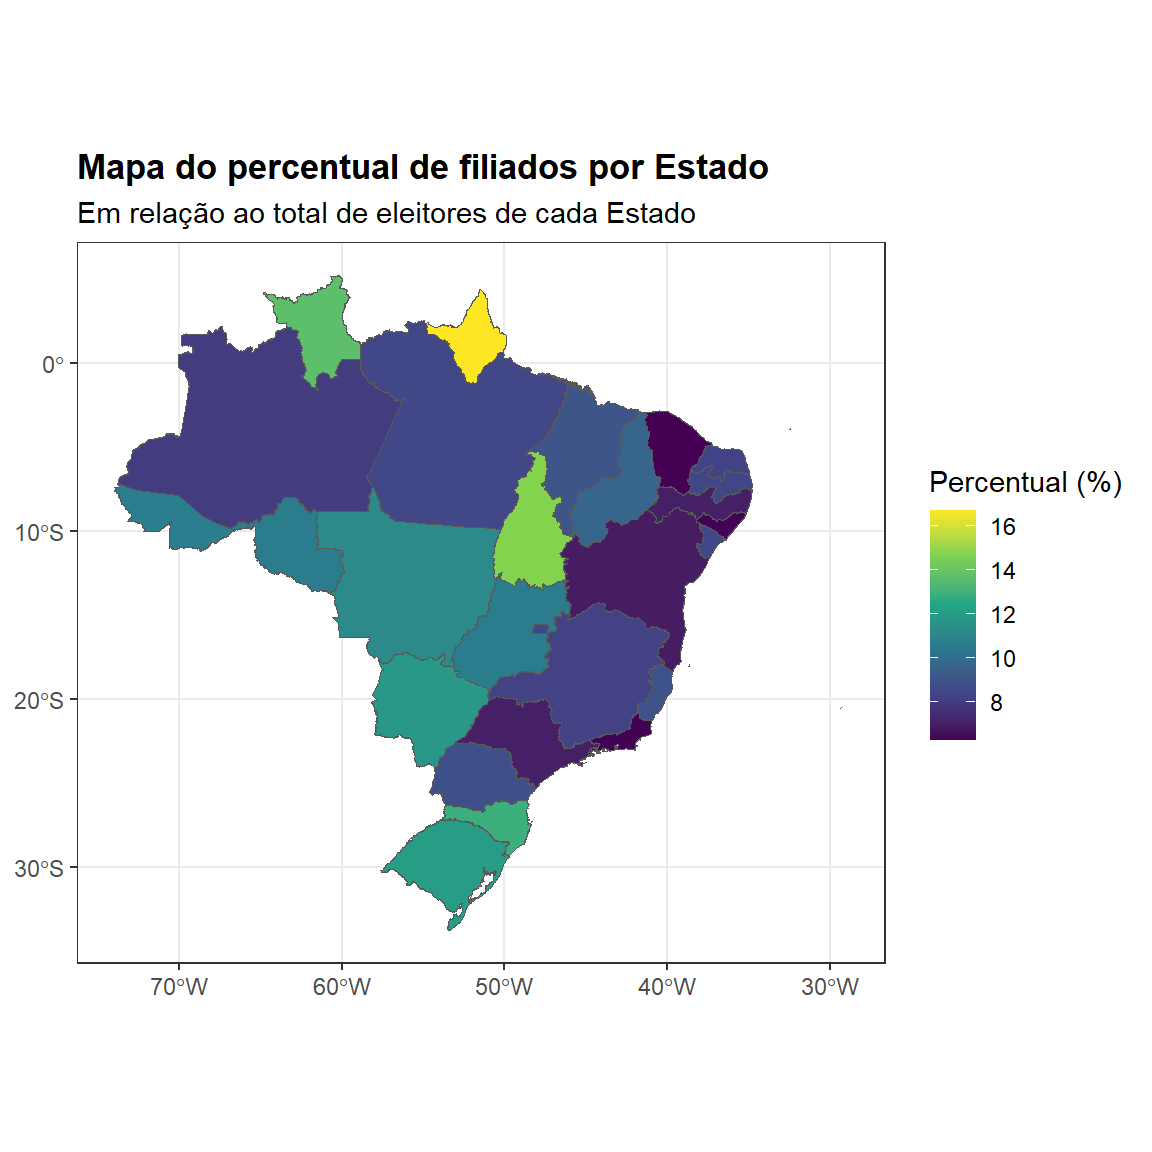
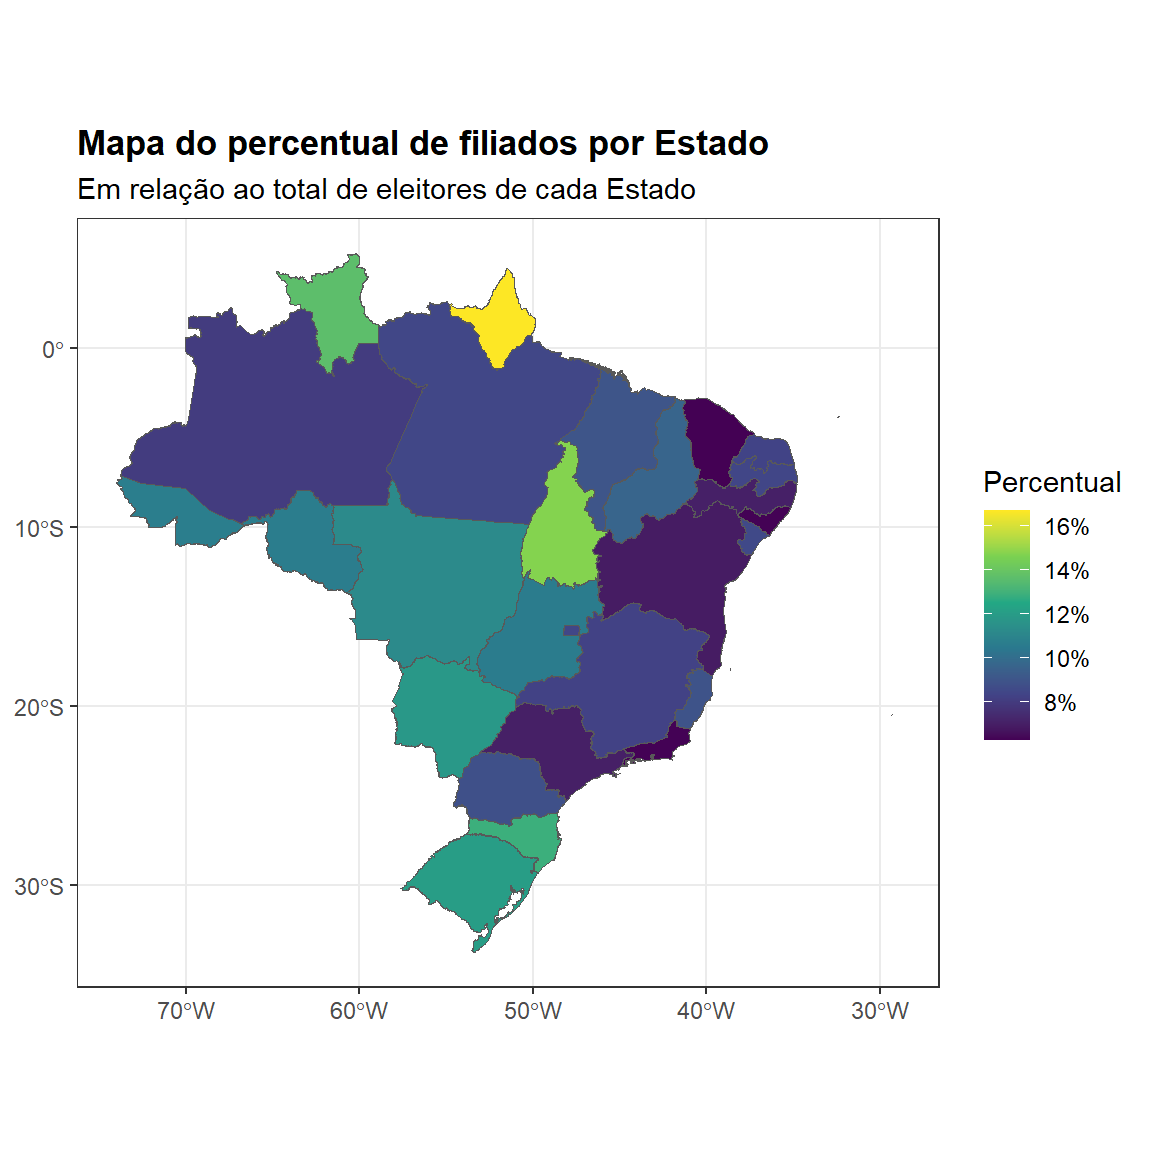
index

diff --git a/index.html b/index.html
@@ -447,18 +447,18 @@ pre > code.sourceCode > span > a:first-child::before { text-decoration: underlin
 <span id="cb11-2"><a href="#cb11-2" aria-hidden="true" tabindex="-1"></a>  <span class="co"># Agrupando por Estado e pela população total</span></span>
 <span id="cb11-3"><a href="#cb11-3" aria-hidden="true" tabindex="-1"></a>  <span class="fu">group_by</span>(uf, quantidade_de_eleitor) <span class="sc">|&gt;</span> </span>
 <span id="cb11-4"><a href="#cb11-4" aria-hidden="true" tabindex="-1"></a>  <span class="co"># Somando o total de pessoas filiadas por Estado</span></span>
-<span id="cb11-5"><a href="#cb11-5" aria-hidden="true" tabindex="-1"></a>  <span class="fu">summarise</span>(<span class="at">total_filiados =</span> <span class="fu">sum</span>(quantidade_de_filiados)) <span class="sc">|&gt;</span></span>
+<span id="cb11-5"><a href="#cb11-5" aria-hidden="true" tabindex="-1"></a>  <span class="fu">summarise</span>(<span class="at">total_filiados =</span> <span class="fu">sum</span>(quantidade_de_filiados)) <span class="sc">|&gt;</span> </span>
 <span id="cb11-6"><a href="#cb11-6" aria-hidden="true" tabindex="-1"></a>  <span class="co"># Retirando ZZ (exterior)</span></span>
 <span id="cb11-7"><a href="#cb11-7" aria-hidden="true" tabindex="-1"></a>  <span class="fu">filter</span>(uf <span class="sc">!=</span> <span class="st">"ZZ"</span>) <span class="sc">|&gt;</span> </span>
 <span id="cb11-8"><a href="#cb11-8" aria-hidden="true" tabindex="-1"></a>  <span class="co"># Fazendo o percentual de filiados em relação à pop. total do Estado</span></span>
-<span id="cb11-9"><a href="#cb11-9" aria-hidden="true" tabindex="-1"></a>  <span class="fu">mutate</span>(<span class="at">prop_filiados =</span> total_filiados<span class="sc">/</span>quantidade_de_eleitor) <span class="sc">|&gt;</span> </span>
+<span id="cb11-9"><a href="#cb11-9" aria-hidden="true" tabindex="-1"></a>  <span class="fu">mutate</span>(<span class="at">perc_filiados =</span> total_filiados<span class="sc">/</span>quantidade_de_eleitor) <span class="sc">|&gt;</span> </span>
 <span id="cb11-10"><a href="#cb11-10" aria-hidden="true" tabindex="-1"></a>  <span class="co"># Iniciando a montagem do gráfico</span></span>
 <span id="cb11-11"><a href="#cb11-11" aria-hidden="true" tabindex="-1"></a>  <span class="fu">ggplot</span>() <span class="sc">+</span></span>
 <span id="cb11-12"><a href="#cb11-12" aria-hidden="true" tabindex="-1"></a>  <span class="co"># Definindo aes</span></span>
 <span id="cb11-13"><a href="#cb11-13" aria-hidden="true" tabindex="-1"></a>  <span class="fu">aes</span>(</span>
 <span id="cb11-14"><a href="#cb11-14" aria-hidden="true" tabindex="-1"></a>    <span class="co"># Ordenando os partidos a partir do número total de pessoas filiadas</span></span>
-<span id="cb11-15"><a href="#cb11-15" aria-hidden="true" tabindex="-1"></a>    <span class="at">x =</span> <span class="fu">reorder</span>(uf, <span class="sc">+</span>prop_filiados), </span>
-<span id="cb11-16"><a href="#cb11-16" aria-hidden="true" tabindex="-1"></a>    <span class="at">y =</span> prop_filiados) <span class="sc">+</span></span>
+<span id="cb11-15"><a href="#cb11-15" aria-hidden="true" tabindex="-1"></a>    <span class="at">x =</span> <span class="fu">reorder</span>(uf, <span class="sc">+</span>perc_filiados), </span>
+<span id="cb11-16"><a href="#cb11-16" aria-hidden="true" tabindex="-1"></a>    <span class="at">y =</span> perc_filiados) <span class="sc">+</span></span>
 <span id="cb11-17"><a href="#cb11-17" aria-hidden="true" tabindex="-1"></a>  <span class="co"># Definindo a geometria</span></span>
 <span id="cb11-18"><a href="#cb11-18" aria-hidden="true" tabindex="-1"></a>  <span class="fu">geom_col</span>(</span>
 <span id="cb11-19"><a href="#cb11-19" aria-hidden="true" tabindex="-1"></a>    <span class="co"># Definindo o preenchuimento pela sigla de cada UF</span></span>
@@ -486,8 +486,8 @@ pre > code.sourceCode > span > a:first-child::before { text-decoration: underlin
 <span id="cb11-41"><a href="#cb11-41" aria-hidden="true" tabindex="-1"></a>  <span class="fu">labs</span>(</span>
 <span id="cb11-42"><a href="#cb11-42" aria-hidden="true" tabindex="-1"></a>    <span class="at">x =</span> <span class="st">""</span>,</span>
 <span id="cb11-43"><a href="#cb11-43" aria-hidden="true" tabindex="-1"></a>    <span class="at">y =</span> <span class="st">"Total"</span>,</span>
-<span id="cb11-44"><a href="#cb11-44" aria-hidden="true" tabindex="-1"></a>    <span class="at">title =</span> <span class="st">"Percentual de pessoas filiadas por Estado"</span>,</span>
-<span id="cb11-45"><a href="#cb11-45" aria-hidden="true" tabindex="-1"></a>    <span class="at">subtitle =</span> <span class="st">"Em relação ao total de eleitores do Estado"</span>,</span>
+<span id="cb11-44"><a href="#cb11-44" aria-hidden="true" tabindex="-1"></a>    <span class="at">title =</span> <span class="st">"Total de pessoas filiadas por Estado"</span>,</span>
+<span id="cb11-45"><a href="#cb11-45" aria-hidden="true" tabindex="-1"></a>    <span class="at">subtitle =</span> <span class="st">"Percentual em relação ao total de eleitores no Estado"</span>,</span>
 <span id="cb11-46"><a href="#cb11-46" aria-hidden="true" tabindex="-1"></a>    <span class="at">caption =</span> <span class="st">"Fonte: Portal de Dados Abertos do TSE (ultima atualização: 07/2023)"</span>) <span class="sc">+</span></span>
 <span id="cb11-47"><a href="#cb11-47" aria-hidden="true" tabindex="-1"></a>  <span class="fu">theme</span>(<span class="at">plot.title =</span> <span class="fu">element_text</span>(<span class="at">size =</span> <span class="dv">12</span>, <span class="at">face =</span> <span class="st">"bold"</span>))</span></code><button title="Copy to Clipboard" class="code-copy-button"><i class="bi"></i></button></pre></div>
 <div class="cell-output-display">
@@ -552,14 +552,14 @@ pre > code.sourceCode > span > a:first-child::before { text-decoration: underlin
 <section id="criando-objeto-com-o-percentual-de-filiados-por-estado" class="level6">
 <h6 class="anchored" data-anchor-id="criando-objeto-com-o-percentual-de-filiados-por-estado">Criando objeto com o percentual de filiados por Estado</h6>
 <div class="cell">
-<div class="sourceCode cell-code" id="cb14"><pre class="sourceCode r code-with-copy"><code class="sourceCode r"><span id="cb14-1"><a href="#cb14-1" aria-hidden="true" tabindex="-1"></a>prop_filiados_uf <span class="ot">&lt;-</span> dados_eleitorado_total <span class="sc">|&gt;</span></span>
+<div class="sourceCode cell-code" id="cb14"><pre class="sourceCode r code-with-copy"><code class="sourceCode r"><span id="cb14-1"><a href="#cb14-1" aria-hidden="true" tabindex="-1"></a>perc_filiados_uf <span class="ot">&lt;-</span> dados_eleitorado_total <span class="sc">|&gt;</span></span>
 <span id="cb14-2"><a href="#cb14-2" aria-hidden="true" tabindex="-1"></a>  <span class="co"># Agrupando por Estado e população total</span></span>
 <span id="cb14-3"><a href="#cb14-3" aria-hidden="true" tabindex="-1"></a>  <span class="fu">group_by</span>(uf, quantidade_de_eleitor) <span class="sc">|&gt;</span> </span>
 <span id="cb14-4"><a href="#cb14-4" aria-hidden="true" tabindex="-1"></a>  <span class="co"># Somando o total de pessoas filiadas</span></span>
 <span id="cb14-5"><a href="#cb14-5" aria-hidden="true" tabindex="-1"></a>  <span class="fu">summarise</span>(<span class="at">total_filiados =</span> <span class="fu">sum</span>(quantidade_de_filiados)) <span class="sc">|&gt;</span> </span>
 <span id="cb14-6"><a href="#cb14-6" aria-hidden="true" tabindex="-1"></a>  <span class="co"># Criando coluna com o percentual de pessoas filiadas em relação à população</span></span>
 <span id="cb14-7"><a href="#cb14-7" aria-hidden="true" tabindex="-1"></a>  <span class="co"># total do Estado</span></span>
-<span id="cb14-8"><a href="#cb14-8" aria-hidden="true" tabindex="-1"></a>  <span class="fu">mutate</span>(<span class="at">prop_filiados =</span> total_filiados<span class="sc">/</span>quantidade_de_eleitor<span class="sc">*</span><span class="dv">100</span>)</span></code><button title="Copy to Clipboard" class="code-copy-button"><i class="bi"></i></button></pre></div>
+<span id="cb14-8"><a href="#cb14-8" aria-hidden="true" tabindex="-1"></a>  <span class="fu">mutate</span>(<span class="at">perc_filiados =</span> total_filiados<span class="sc">/</span>quantidade_de_eleitor)</span></code><button title="Copy to Clipboard" class="code-copy-button"><i class="bi"></i></button></pre></div>
 </div>
 </section>
 <section id="adicionando-as-coordenadas-de-cada-estado-ao-dataset-acima" class="level6">
@@ -572,9 +572,9 @@ pre > code.sourceCode > span > a:first-child::before { text-decoration: underlin
 <span id="cb15-5"><a href="#cb15-5" aria-hidden="true" tabindex="-1"></a>  <span class="co"># Função para juntar as bases</span></span>
 <span id="cb15-6"><a href="#cb15-6" aria-hidden="true" tabindex="-1"></a>  <span class="fu">left_join</span>(</span>
 <span id="cb15-7"><a href="#cb15-7" aria-hidden="true" tabindex="-1"></a>    <span class="co"># Juntando a base "shape" na base "prop_filiados_uf" a partir da coluna "uf"</span></span>
-<span id="cb15-8"><a href="#cb15-8" aria-hidden="true" tabindex="-1"></a>    prop_filiados_uf, <span class="at">by =</span> <span class="fu">c</span>(<span class="st">"uf"</span>)) <span class="sc">|&gt;</span></span>
+<span id="cb15-8"><a href="#cb15-8" aria-hidden="true" tabindex="-1"></a>    perc_filiados_uf, <span class="at">by =</span> <span class="fu">c</span>(<span class="st">"uf"</span>)) <span class="sc">|&gt;</span></span>
 <span id="cb15-9"><a href="#cb15-9" aria-hidden="true" tabindex="-1"></a>  <span class="co"># Selecionando somente as colunas de interesse para fazer o mapa</span></span>
-<span id="cb15-10"><a href="#cb15-10" aria-hidden="true" tabindex="-1"></a>  <span class="fu">select</span>(uf, prop_filiados, geom)</span></code><button title="Copy to Clipboard" class="code-copy-button"><i class="bi"></i></button></pre></div>
+<span id="cb15-10"><a href="#cb15-10" aria-hidden="true" tabindex="-1"></a>  <span class="fu">select</span>(uf, perc_filiados, geom)</span></code><button title="Copy to Clipboard" class="code-copy-button"><i class="bi"></i></button></pre></div>
 </div>
 </section>
 <section id="fazendo-o-mapa" class="level6">
@@ -584,13 +584,13 @@ pre > code.sourceCode > span > a:first-child::before { text-decoration: underlin
 <span id="cb16-2"><a href="#cb16-2" aria-hidden="true" tabindex="-1"></a>  <span class="fu">ggplot</span>() <span class="sc">+</span></span>
 <span id="cb16-3"><a href="#cb16-3" aria-hidden="true" tabindex="-1"></a>  <span class="co"># Definindo a geometria do mapa</span></span>
 <span id="cb16-4"><a href="#cb16-4" aria-hidden="true" tabindex="-1"></a>  <span class="fu">geom_sf</span>(</span>
-<span id="cb16-5"><a href="#cb16-5" aria-hidden="true" tabindex="-1"></a>    <span class="co"># Preenchendo os Estado com os valores da coluna "prop_filiados"</span></span>
-<span id="cb16-6"><a href="#cb16-6" aria-hidden="true" tabindex="-1"></a>    <span class="fu">aes</span>(<span class="at">fill =</span> prop_filiados)) <span class="sc">+</span></span>
-<span id="cb16-7"><a href="#cb16-7" aria-hidden="true" tabindex="-1"></a>  <span class="fu">scale_fill_continuous</span>(<span class="at">type =</span> <span class="st">"viridis"</span>) <span class="sc">+</span></span>
+<span id="cb16-5"><a href="#cb16-5" aria-hidden="true" tabindex="-1"></a>    <span class="co"># Preenchendo os Estado com os valores da coluna "perc_filiados"</span></span>
+<span id="cb16-6"><a href="#cb16-6" aria-hidden="true" tabindex="-1"></a>    <span class="fu">aes</span>(<span class="at">fill =</span> perc_filiados)) <span class="sc">+</span></span>
+<span id="cb16-7"><a href="#cb16-7" aria-hidden="true" tabindex="-1"></a>  <span class="fu">scale_fill_continuous</span>(<span class="at">type =</span> <span class="st">"viridis"</span>, <span class="at">labels =</span> scales<span class="sc">::</span>percent) <span class="sc">+</span></span>
 <span id="cb16-8"><a href="#cb16-8" aria-hidden="true" tabindex="-1"></a>  <span class="fu">labs</span>(</span>
 <span id="cb16-9"><a href="#cb16-9" aria-hidden="true" tabindex="-1"></a>    <span class="at">title =</span> <span class="st">"Mapa do percentual de filiados por Estado"</span>,</span>
 <span id="cb16-10"><a href="#cb16-10" aria-hidden="true" tabindex="-1"></a>    <span class="at">subtitle =</span> <span class="st">"Em relação ao total de eleitores de cada Estado"</span>,</span>
-<span id="cb16-11"><a href="#cb16-11" aria-hidden="true" tabindex="-1"></a>    <span class="at">fill =</span> <span class="st">"Percentual (%)"</span></span>
+<span id="cb16-11"><a href="#cb16-11" aria-hidden="true" tabindex="-1"></a>    <span class="at">fill =</span> <span class="st">"Percentual"</span></span>
 <span id="cb16-12"><a href="#cb16-12" aria-hidden="true" tabindex="-1"></a>  ) <span class="sc">+</span></span>
 <span id="cb16-13"><a href="#cb16-13" aria-hidden="true" tabindex="-1"></a>  <span class="fu">theme_bw</span>() <span class="sc">+</span></span>
 <span id="cb16-14"><a href="#cb16-14" aria-hidden="true" tabindex="-1"></a>  <span class="fu">theme</span>(<span class="at">plot.title =</span> <span class="fu">element_text</span>(<span class="at">face =</span> <span class="st">"bold"</span>))</span></code><button title="Copy to Clipboard" class="code-copy-button"><i class="bi"></i></button></pre></div>
